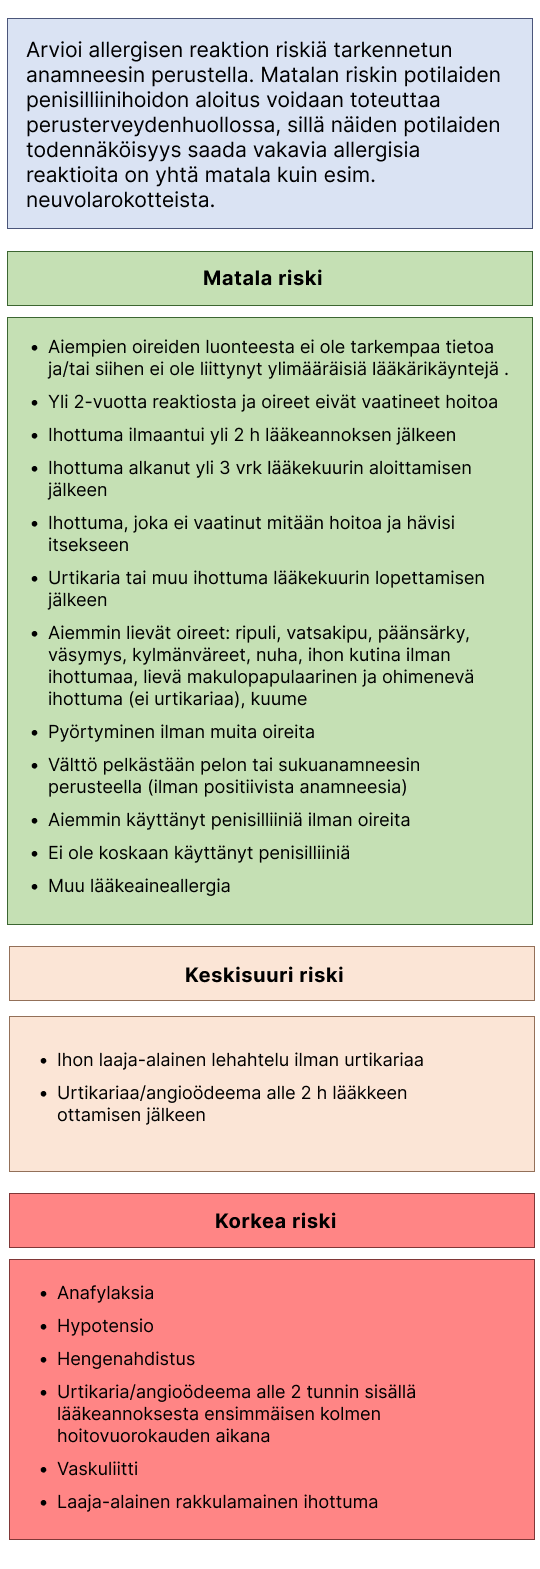
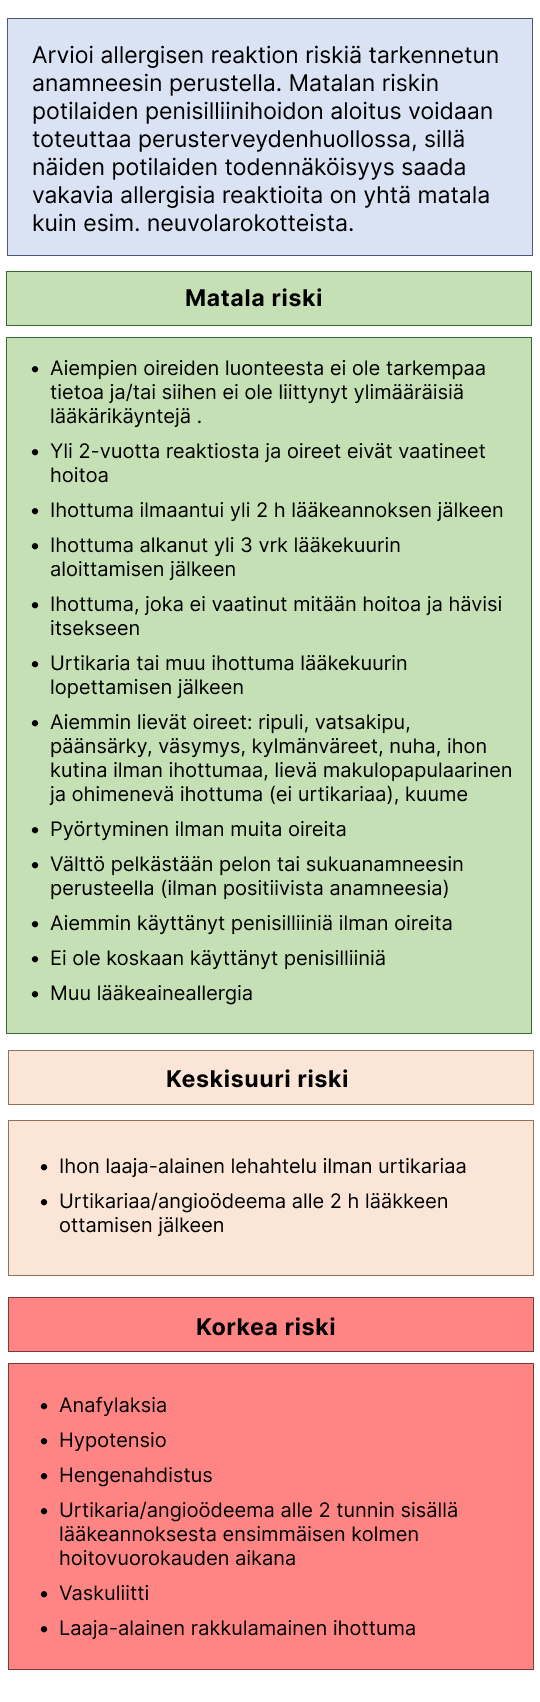
Increased images' font size and other small fixes

Changed region(s): [[0.0, 0.0, 1.0, 0.9681]]

diff --git a/frontend/antibiootit/src/components/Allergy.js b/frontend/antibiootit/src/components/Allergy.js
@@ -80,20 +80,23 @@ export default function Allergy() {
                     <AntibioticInfoTexts antibioticInfoTexts={antibioticInfoTexts} />
                     <h3 className="risk-evaluation-header">1. Riskin arvioiminen</h3>
                     {isLargeScreen ? (
-                        <img className="penicillin-info-image" src="penicillinallergyimage.PNG" alt="Penisilliiniallergia riskiarvio" onClick={() => openModal('./penicillinallergyimage.PNG')}/>
+                        <img className="penicillin-info-image" src="penicillinallergyimage.png" alt="Penisilliiniallergia riskiarvio" onClick={() => openModal('./penicillinallergyimage.png')}/>
                     ) : (
                         <img className="penicillin-image-mobile" src="penicillinimagemobile.png" alt="Penisilliiniallergia riskiarvio" onClick={() => openModal('./penicillinimagemobile.png')}/>
                     )}
                     <h3 className="risk-evaluation-header">2. Toimintaohjeet</h3>
                     {isLargeScreen ? (
-                        <img className="penicillin-info-image2" src="penicillinallergyimage2.PNG" alt="Penisilliiniallergia toimintaohjeet" onClick={() => openModal('./penicillinallergyimage2.PNG')}/>  
+                        <img className="penicillin-info-image2" src="penicillinallergyimage2.png" alt="Penisilliiniallergia toimintaohjeet" onClick={() => openModal('./penicillinallergyimage2.png')}/>  
                     ) : (
                         <img className="penicillin-image-mobile2" src="penicillinimagemobile2.png" alt="Penisilliiniallergia toimintaohjeet" onClick={() => openModal('./penicillinimagemobile2.png')}/>
                     )}
 
                     <Modal className="modal" isOpen={isModalOpen} onRequestClose={closeModal}>
-                    <img src={selectedImage} alt="Avattu kuva" />
-                    <button onClick={closeModal} className="modal-close-btn">Sulje</button></Modal>
+                    <div className="modal-content">
+                        <img src={selectedImage} alt="Avattu kuva" />
+                        <button onClick={closeModal} className="modal-close-btn">Sulje</button>
+                    </div>
+                    </Modal>
                     <References references={references}/>
                 </>
             )

diff --git a/frontend/antibiootit/src/style.css b/frontend/antibiootit/src/style.css
@@ -1169,6 +1169,7 @@ aside {
     scrollbar-width: none; 
     -ms-overflow-style: none;
     box-shadow: none;  
+    z-index: 100;
 }
 
 .modal img {
@@ -1419,13 +1420,14 @@ aside {
         padding-top: 40px;
     }  .modal img {
         -webkit-overflow-scrolling: touch;
-        z-index: 10;
-        padding-top: 58px;
     } .modal {
         position: relative;
         overflow-y: auto;
         -webkit-overflow-scrolling: touch; 
-    } 
+        padding-bottom: 150px;
+    } .modal-close-btn {
+        right: 35px;
+    }
 }
 
 @media only screen and (min-width: 631px) {

diff --git a/frontend/antibiootit/src/index.js b/frontend/antibiootit/src/index.js
@@ -3,6 +3,9 @@ import ReactDOM from 'react-dom/client';
 import './style.css';
 import App from './App';
 import { BrowserRouter } from 'react-router-dom';
+import Modal from 'react-modal';
+
+Modal.setAppElement(document.getElementById('root'))
 
 const root = ReactDOM.createRoot(document.getElementById('root'));
 root.render(

diff --git a/frontend/antibiootit/src/components/Header.js b/frontend/antibiootit/src/components/Header.js
@@ -16,8 +16,8 @@ export default function Header() {
             console.log(showMobileMenu)
         }
       }
-
-    
+      
+      
     return (
         <header className="header">
             
